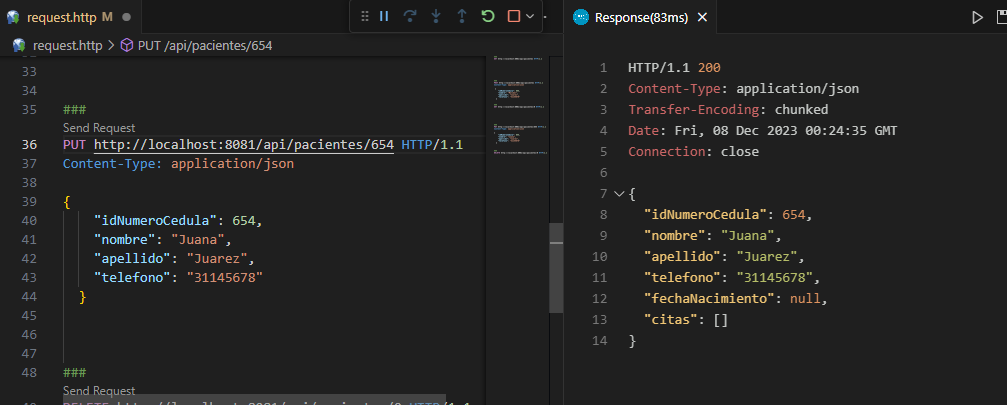
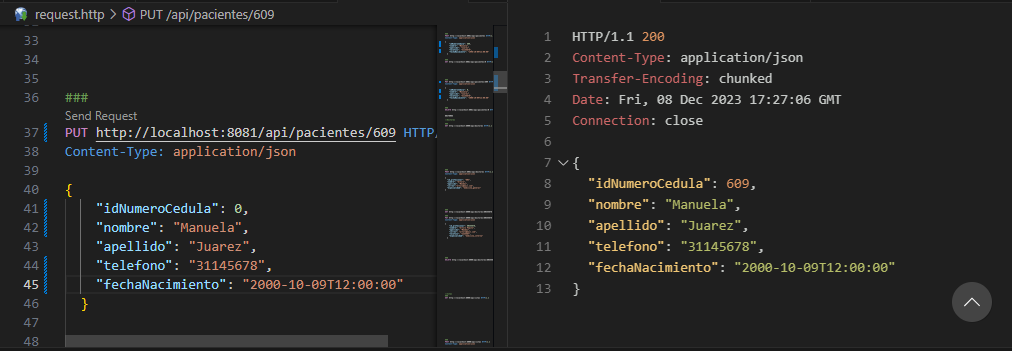
Prueba pacientes

diff --git a/src/main/java/com/citas/apicitas/entities/Paciente.java b/src/main/java/com/citas/apicitas/entities/Paciente.java
@@ -3,6 +3,8 @@ package com.citas.apicitas.entities;
 import java.time.LocalDateTime;
 import java.util.*;
 
+import com.fasterxml.jackson.annotation.JsonIgnore;
+
 import jakarta.persistence.*;
 import lombok.AllArgsConstructor;
 import lombok.Data;
@@ -30,6 +32,7 @@ public class Paciente {
     @Column(name="fecha_nacimiento")
     private LocalDateTime fechaNacimiento;
 
+    @JsonIgnore
     @OneToMany(mappedBy="paciente")
     private Set<Cita> citas = new HashSet<Cita>(); ;
 }

diff --git a/src/main/java/com/citas/apicitas/controllers/PacienteController.java b/src/main/java/com/citas/apicitas/controllers/PacienteController.java
@@ -11,7 +11,7 @@ import org.springframework.web.bind.annotation.*;
 @RestController
 @RequestMapping("/api/pacientes")
 public class PacienteController {
-   @Autowired
+  @Autowired
   private PacienteService pacienteService;
 
   @GetMapping("")
